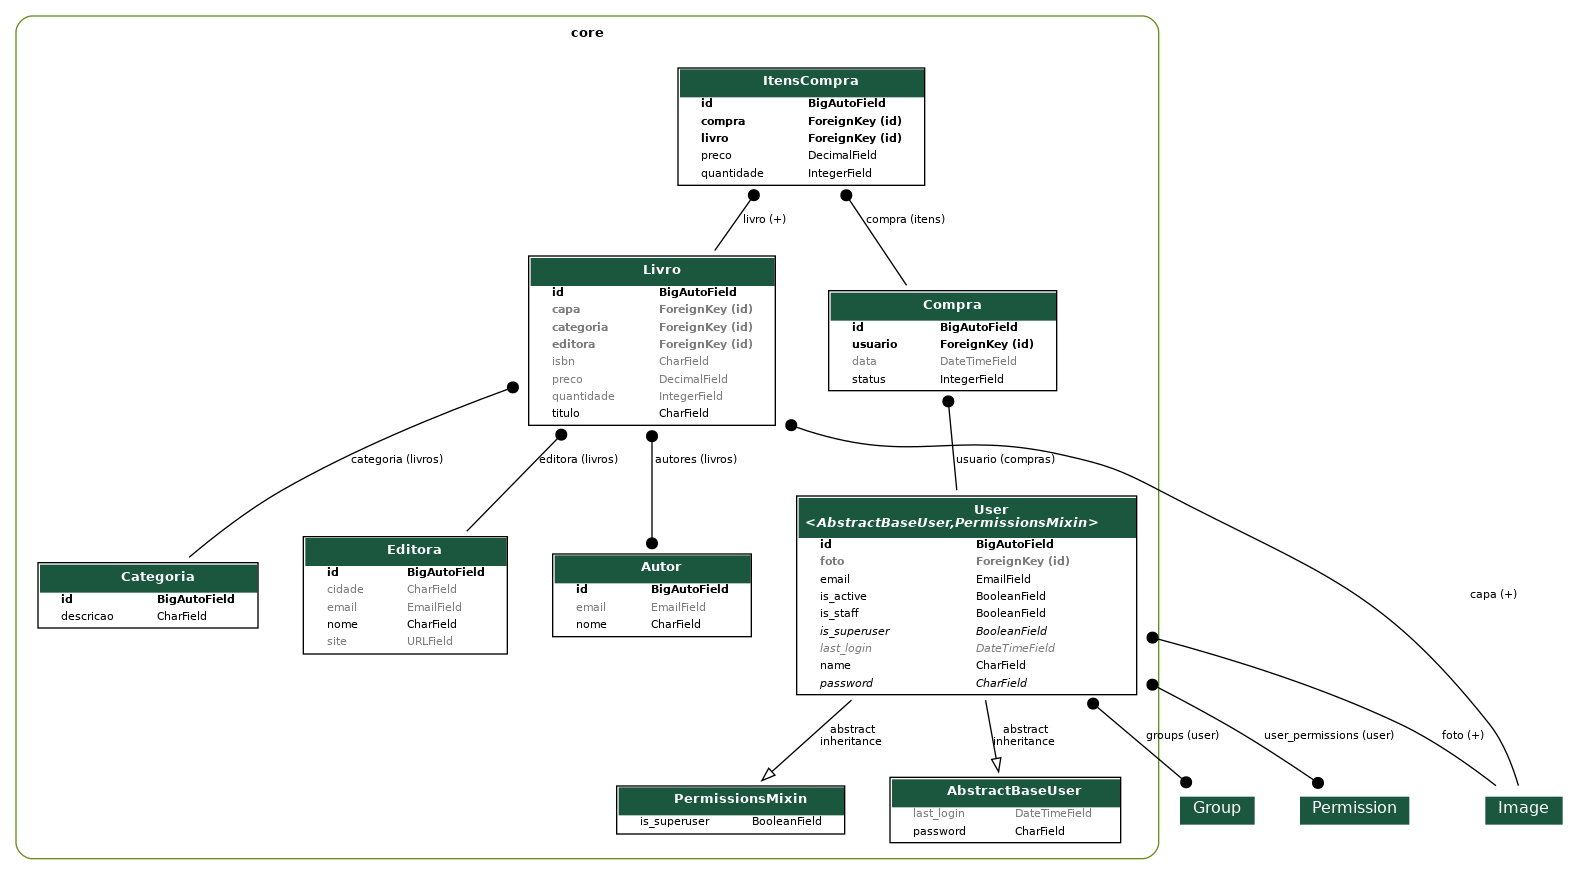
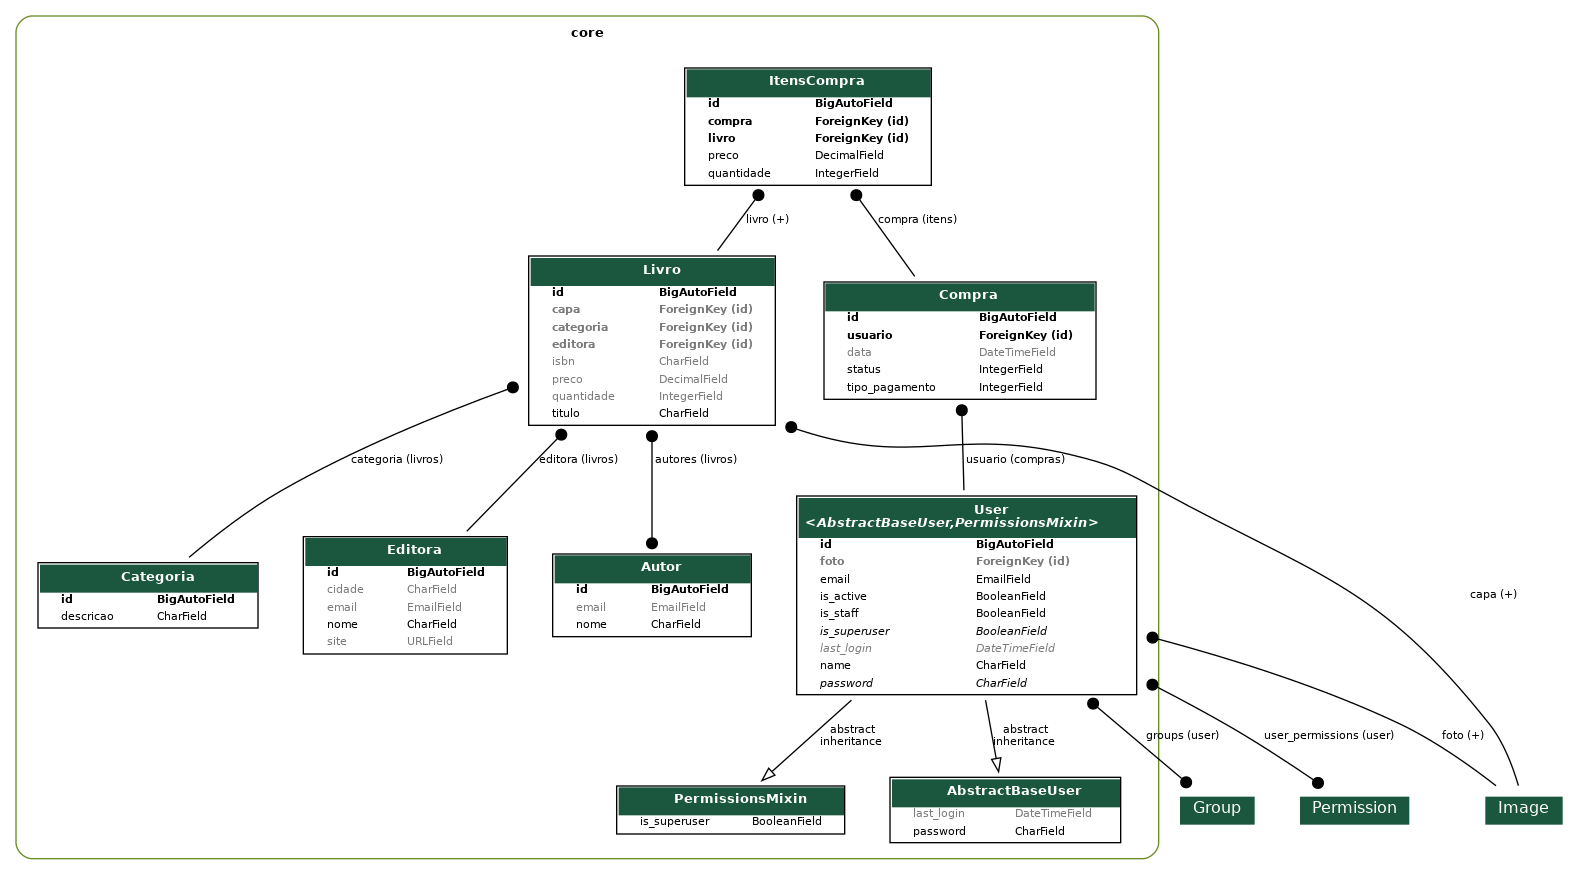
34 - Adicionando tipo de pagamento à entidade de Compra

diff --git a/core/migrations/0017_compra_tipo_pagamento.py b/core/migrations/0017_compra_tipo_pagamento.py
@@ -1,0 +1,29 @@
+# Generated by Django 5.0.2 on 2024-10-18 11:39
+
+from django.db import migrations, models
+
+
+class Migration(migrations.Migration):
+
+    dependencies = [
+        ("core", "0016_compra_data_itenscompra_preco"),
+    ]
+
+    operations = [
+        migrations.AddField(
+            model_name="compra",
+            name="tipo_pagamento",
+            field=models.IntegerField(
+                choices=[
+                    (1, "Cartão de Crédito"),
+                    (2, "Cartão de Débito"),
+                    (3, "PIX"),
+                    (4, "Boleto"),
+                    (5, "Transferência Bancária"),
+                    (6, "Dinheiro"),
+                    (7, "Outro"),
+                ],
+                default=1,
+            ),
+        ),
+    ]

diff --git a/core/models/compra.py b/core/models/compra.py
@@ -11,6 +11,16 @@ class Compra(models.Model):
         PAGO = 3, "Pago"
         ENTREGUE = 4, "Entregue"
 
+    class TipoPagamento(models.IntegerChoices):
+        CARTAO_CREDITO = 1, "Cartão de Crédito"
+        CARTAO_DEBITO = 2, "Cartão de Débito"
+        PIX = 3, "PIX"
+        BOLETO = 4, "Boleto"
+        TRANSFERENCIA_BANCARIA = 5, "Transferência Bancária"
+        DINHEIRO = 6, "Dinheiro"
+        OUTRO = 7, "Outro"
+
+    tipo_pagamento = models.IntegerField(choices=TipoPagamento.choices, default=TipoPagamento.CARTAO_CREDITO)
     usuario = models.ForeignKey(User, on_delete=models.PROTECT, related_name="compras")
     status = models.IntegerField(choices=StatusCompra.choices, default=StatusCompra.CARRINHO)
     data = models.DateTimeField(auto_now_add=True)
